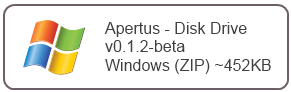
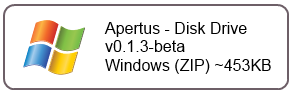
Update to newest Release

diff --git a/index.html b/index.html
@@ -1,4 +1,4 @@
-<!DOCTYPE html>
+<!DOCTYPE html>
 <html>
 
   <head>
@@ -32,7 +32,7 @@
     <!-- MAIN CONTENT -->
     <div id="main_content_wrap" class="outer">
       <section id="main_content" class="inner">
-<p><a href="https://github.com/HugPuddle/ADD/releases/download/v0.1.2-beta/ADD_v0.1.2-beta.zip"><img src="images/getDiskDrive.png"/></a></p>
+<p><a href="https://github.com/HugPuddle/ADD/releases/download/v0.1.3-beta/ADD_v0.1.3-beta.zip"><img src="images/getDiskDrive.png"/></a></p>
 
 <h2>
 <a name="Features" class="anchor" href="#features"><span class="octicon octicon-link"></span></a>Features</h2>
